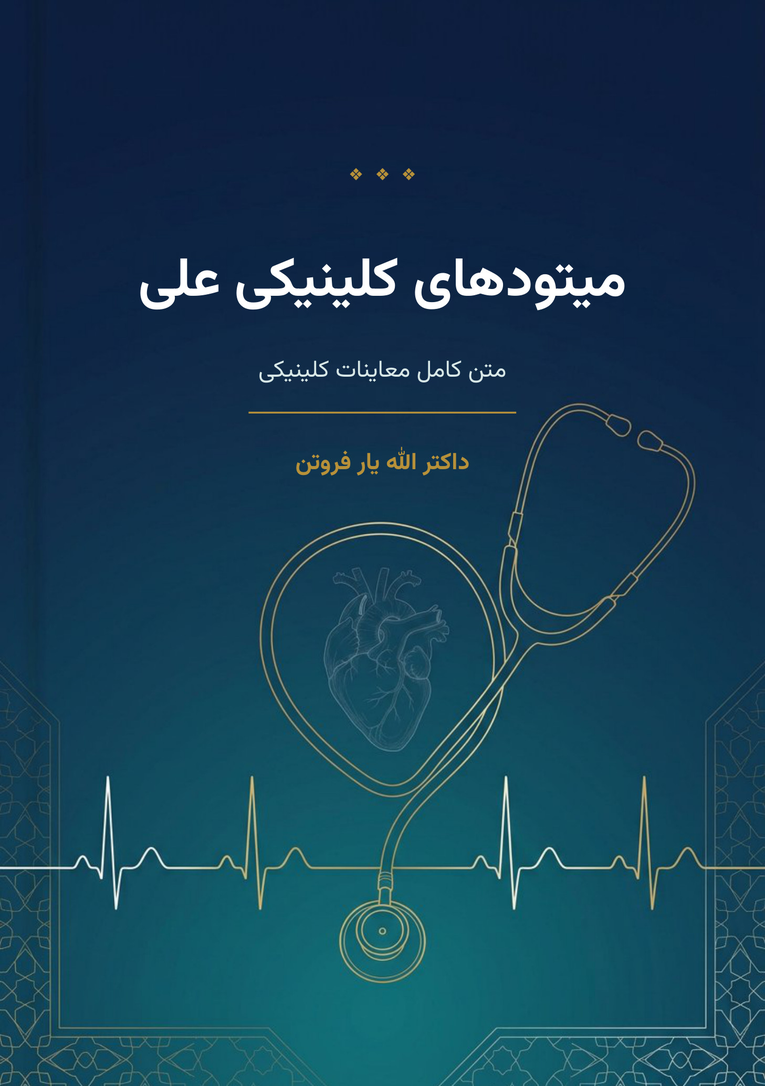
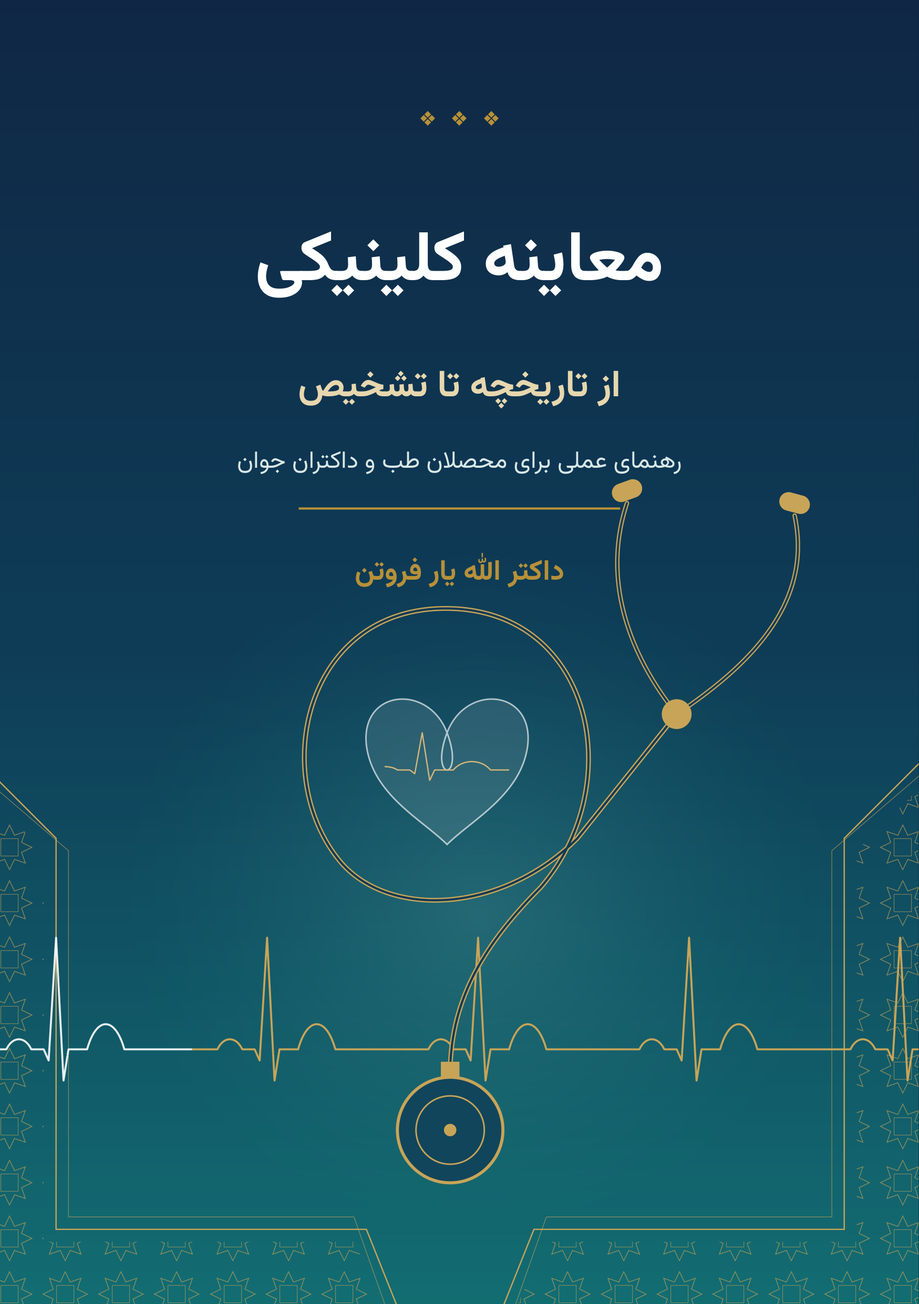
v1.5 WIP: title, vector cover, meta notes removed, imprint fix, even print pages, docs

diff --git a/clinical-methods-ali/tools/cover/make_cover.py b/clinical-methods-ali/tools/cover/make_cover.py
@@ -25,21 +25,24 @@ total_h = H + 2 * B
 src = f'''
 #let navy = rgb("#0f2744"); #let teal = rgb("#136f73"); #let gold = rgb("#b8913a")
 #set page(width: {total_w}mm, height: {total_h}mm, margin: 0pt)
+#import "tools/cover/art.typ": cover-art
 #set text(font: "Vazirmatn", lang: "fa", dir: rtl)
 // background: continuous navy -> teal gradient across the whole wrap
 #place(top + left, rect(width: 100%, height: 100%, fill: gradient.linear(navy, rgb("#0f4a5c"), angle: 90deg)))
 
 // ── FRONT (left panel, incl. left bleed) ──
 #place(top + left, dx: 0mm, dy: 0mm, box(width: {W + B}mm, height: 100%, clip: true,
-  image("assets/cover-art.jpg", width: 100%, height: 100%, fit: "cover")))
+  cover-art(w: {W + B}, h: {H + 2 * B})))
 #place(top + left, dx: {B}mm, dy: {B}mm, box(width: {W}mm, height: {H}mm)[
-  #v(15%)
+  #v(8%)
   #align(center)[
     #text(fill: gold, size: 12pt, tracking: 2pt)[❖ ❖ ❖]
     #v(0.6em)
-    #text(fill: white, size: 30pt, weight: "bold")[میتودهای کلینیکی علی]
+    #text(fill: white, size: 32pt, weight: "bold")[معاینه کلینیکی]
     #v(0.1em)
-    #text(fill: rgb("#d9e8e8"), size: 13pt)[متن کامل معاینات کلینیکی]
+    #text(fill: rgb("#e8d7b0"), size: 17pt, weight: "bold")[از تاریخچه تا تشخیص]
+    #v(0.3em)
+    #text(fill: rgb("#d9e8e8"), size: 11pt)[رهنمای عملی برای محصلان طب و داکتران جوان]
     #v(0.5em)
     #line(length: 35%, stroke: 1pt + gold)
     #v(0.6em)
@@ -53,7 +56,7 @@ src = f'''
   align(center + horizon, rotate(-90deg, reflow: true,
     box(width: {H - 30}mm)[
       #set text(size: {min(12, spine * 0.45):.1f}pt)
-      #text(fill: white, weight: "bold")[میتودهای کلینیکی علی]
+      #text(fill: white, weight: "bold")[معاینه کلینیکی: از تاریخچه تا تشخیص]
       #h(1fr) #text(fill: gold, size: 0.8em)[❖] #h(1fr)
       #text(fill: gold, weight: "bold")[داکتر الله یار فروتن]
     ]))))
@@ -65,17 +68,17 @@ src = f'''
   #set text(fill: white, size: 11.5pt)
   #align(center, text(fill: gold, size: 12pt, tracking: 2pt)[❖ ❖ ❖])
   #v(0.8em)
-  #align(center, text(size: 18pt, weight: "bold")[میتودهای کلینیکی علی])
+  #align(center, text(size: 17pt, weight: "bold")[معاینه کلینیکی: از تاریخچه تا تشخیص])
   #v(0.8em)
-  «میتودهای کلینیکی علی» رهنمای درسی معاینات کلینیکی به زبان دری است؛ از
+  این کتاب رهنمای درسی معاینات کلینیکی به زبان دری است؛ از
   گرفتن تاریخچه و معاینه عمومی تا معاینه سیستمهای قلبیوعایی، تنفسی، هضمی،
   عصبی، حرکی، ولادی، نسایی، اطفال، گوش و بینی و گلو، و خوانش
   الکتروکاردیوگرام.
 
   هر فصل با اهداف آموزشی آغاز میشود و با نکات کلیدی، علایم خطر،
   کیس کلینیکی و سؤالات خودآزمایی پایان مییابد. اصطلاحات طبی با معادل
-  انگلیسی آنها آمدهاند و اندازههای نارمل با رهنمودهای معتبر و بهروز
-  مقایسه و تصحیح شدهاند.
+  انگلیسی آنها آمدهاند و اندازههای نارمل مطابق رهنمودهای معتبر و بهروز
+  بینالمللی ذکر شدهاند.
 
   #v(0.4em)
   #text(fill: gold, weight: "bold")[در این کتاب:]
@@ -97,5 +100,11 @@ tmp = ROOT / ".cover.typ"
 tmp.write_text(src, encoding="utf-8")
 out = ROOT / "build/clinical-methods-ali-cover-wrap.pdf"
 typst.compile(str(tmp), output=str(out), root=str(ROOT), font_paths=[str(ROOT / "fonts")], ignore_system_fonts=True)
+# front cover alone (trim size, no bleed) for the EPUB, rendered at 300 dpi
+front = pymupdf.open(str(out))
+pg = front[0]
+clip = pymupdf.Rect(B / 25.4 * 72, B / 25.4 * 72, (B + W) / 25.4 * 72, (B + H) / 25.4 * 72)
+pix = pg.get_pixmap(dpi=300, clip=clip)
+pix.save(str(ROOT / "assets/cover.jpg"), jpg_quality=92)
 tmp.unlink()
-print(f"interior pages={pages} caliper={a.caliper} spine={spine}mm  sheet={total_w:.1f}x{total_h}mm -> {out.name}")
+print(f"epub cover {pix.width}x{pix.height}px; interior pages={pages} caliper={a.caliper} spine={spine}mm  sheet={total_w:.1f}x{total_h}mm -> {out.name}")

diff --git a/clinical-methods-ali/tools/edit_master.py b/clinical-methods-ali/tools/edit_master.py
@@ -257,7 +257,7 @@ for anchor, name, cap in ADD:
 REPORT.append(f"{k:5d}  additional teaching figures / mind maps inserted")
 # chapter-5 list of X-ray images: images not reproducible -> short note instead of a dangling list
 t = t.replace("**فهرست اشکال و دیاگرامهای فصل**\n",
-  "::: note\n**یادداشت:** رادیوگرافیهای واقعی این فصل (فهرست ذیل) در نسخههای بعدی علاوه خواهند شد؛ برای دیدن نمونهها به اطلسهای معتبر رادیولوژی مراجعه نمایید.\n:::\n\n**فهرست رادیوگرافیهای پیشنهادی این فصل**\n", 1)
+  "::: note\n**یادداشت:** برای دیدن رادیوگرافیهای واقعیِ حالات فهرست ذیل، به اطلسهای معتبر رادیولوژی مراجعه کنید.\n:::\n\n**فهرست رادیوگرافیهای پیشنهادی این فصل**\n", 1)
 DST.write_text(t, encoding="utf-8")
 with open(ROOT / "build/edit-report.txt", "a", encoding="utf-8") as f:
     f.write("\n".join(REPORT[-3:]) + "\n")

diff --git a/clinical-methods-ali/PUBLISHING.md b/clinical-methods-ali/PUBLISHING.md
@@ -1,4 +1,4 @@
-# شناسنامه نشر و مشخصات چاپ ـ «میتودهای کلینیکی علی» (v1.3)
+# شناسنامه نشر و مشخصات چاپ ـ «معاینه کلینیکی: از تاریخچه تا تشخیص» (v1.5)
 
 این سند برای مؤلف، ناشر و مطبعه است. همه اعداد از فایلهای ساختهشده گرفته شدهاند.
 
@@ -6,20 +6,21 @@
 
 | مورد | مقدار |
 |---|---|
-| عنوان | میتودهای کلینیکی علی |
-| عنوان فرعی | متن کامل معاینات کلینیکی |
+| عنوان | معاینه کلینیکی |
+| عنوان فرعی | از تاریخچه تا تشخیص |
+| شعار روی جلد | رهنمای عملی برای محصلان طب و داکتران جوان (فقط روی جلد) |
 | مؤلف | داکتر الله یار فروتن (Dr Allah Yar Frotan) |
 | زبان | دری (fa-AF)، راست به چپ |
 | چاپ | اول (۱۴۰۵ هـ ش / ۲۰۲۶) |
-| ناشر | **هنوز تعیین نشده** (باید مؤلف اعلام کند) |
-| شابک (ISBN) | **هنوز اخذ نشده**؛ صفحه شناسنامه همین را میگوید |
+| ناشر | خالی؛ در کتاب چیزی درباره آن چاپ نمیشود. وقتی تعیین شد: `publisher:` در `metadata.yaml` |
+| شابک (ISBN) | خالی؛ صفحه شناسنامه هیچ یادداشتی درباره آن ندارد. وقتی اخذ شد: `isbn: 978-…` در `metadata.yaml` و بازسازی (در شناسنامه و metadata ظاهر میشود) |
 | موضوعات | طب کلینیکی؛ معاینه فزیکی؛ Physical examination؛ Clinical medicine |
 | کلمات کلیدی | معاینه کلینیکی، تاریخچهگیری، ECG، طب دری |
 | خواننده هدف | محصلان طب (سالهای کلینیکی)، داکتران جوان، استادان |
 | محتوا | ۱۴ فصل و ۵ ضمیمه؛ ۶۳ شکل/شیما/الگوریتم/جدول ترسیمی؛ ۲۲ جدول متنی؛ ۱۵ کیس کلینیکی؛ ۱۵ مجموعه سؤال با جواب؛ ۷۶ اصطلاح؛ فهرست موضوعی ۸۷ مدخل |
 
 **معرفی کوتاه (برای پشت جلد، فهرست کتابفروشی و EPUB):**
-«میتودهای کلینیکی علی» رهنمای درسی معاینات کلینیکی به زبان دری است؛ از گرفتن تاریخچه و معاینه عمومی تا معاینه سیستمهای قلبیوعایی، تنفسی، هضمی، عصبی، حرکی، ولادی، نسایی، اطفال، گوش و بینی و گلو، و خوانش الکتروکاردیوگرام. هر فصل با اهداف آموزشی آغاز و با نکات کلیدی، علایم خطر، کیس کلینیکی و سؤالات خودآزمایی ختم میشود.
+«معاینه کلینیکی: از تاریخچه تا تشخیص» رهنمای درسی معاینات کلینیکی به زبان دری است؛ از گرفتن تاریخچه و معاینه عمومی تا معاینه سیستمهای قلبیوعایی، تنفسی، هضمی، عصبی، حرکی، ولادی، نسایی، اطفال، گوش و بینی و گلو، و خوانش الکتروکاردیوگرام. هر فصل با اهداف آموزشی آغاز و با نکات کلیدی، علایم خطر، کیس کلینیکی و سؤالات خودآزمایی ختم میشود.
 
 ## ۲. فایلهای نهایی (`release/`)
 
@@ -36,13 +37,13 @@
 | مورد | مقدار |
 |---|---|
 | قطع | A5 ـ ۱۴۸ × ۲۱۰ ملیمتر (رقعی اروپایی) |
-| تعداد صفحات متن | **۴۲۶** (شامل صفحات سفید پیش از فصلها) |
+| تعداد صفحات متن | **۴۴۰** (زوج؛ شامل صفحات سفید پیش از فصلها و یک صفحه سفید آخر) |
 | صحافی | چسب گرم (perfect binding)، **عطف در طرف راست** (کتاب راست به چپ) |
 | حاشیهها | داخل (طرف عطف) ۲۱ mm، بیرون ۱۶ mm، بالا ۲۲ mm، پایین ۲۰ mm |
 | رنگ متن داخلی | **رنگی** (سرمهای، فیروزهای، طلایی در جعبهها و شکلها). اگر چاپ سیاه و سفید انتخاب شود، باید یک نمونه آزمایشی چاپ و خوانایی جعبهها بررسی گردد |
 | کاغذ پیشنهادی | آفست ۸۰ گرم |
-| عطف | **۲۴٫۱ mm** با ضخامت ۰٫۰۵۵ mm برای هر صفحه. **ضخامت کاغذ را از مطبعه بپرسید** و جلد را دوباره بسازید: `python3 tools/cover/make_cover.py --caliper 0.050` |
-| اندازه ورق جلد | ۳۲۵٫۴ × ۲۱۶ mm (دو روی ۱۴۸ + عطف ۲۳٫۴ + دو bleed ۳ mm) |
+| عطف | **۲۴٫۲ mm** با فرض ضخامت ۰٫۰۵۵ mm برای هر صفحه (مقدار معمول آفست ۸۰ گرم، ۰٫۰۵–۰٫۱ mm). اگر مطبعه ضخامت دیگری گفت: `python3 tools/cover/make_cover.py --caliper 0.050` |
+| اندازه ورق جلد | ۳۲۶٫۲ × ۲۱۶ mm (دو روی ۱۴۸ + عطف ۲۴٫۲ + دو bleed ۳ mm) |
 | ترتیب جلد | از بیرون، وقتی جلد باز است: **روی جلد چپ**، عطف وسط، **پشت جلد راست** (مخصوص کتاب راست به چپ) |
 | نوشته عطف | عنوان و نام مؤلف؛ وقتی کتاب رو به بالا گذاشته شود، خوانده میشود |
 | فضای رنگ | RGB. مطبعه باید به CMYK تبدیل کند و **یک نمونه چاپی (proof)** بدهد |
@@ -60,11 +61,15 @@
 - ✅ metadata درست در PDF (عنوان، مؤلف، کلمات کلیدی)، EPUB (شناسه ثابت، موضوعات، دسترسیپذیری) و DOCX
 - ✅ جلد کامل با پشت جلد و عطف
 
-### باقیمانده (تصمیم انسانی لازم است)
-- ⬜ **ناشر** و **شابک (ISBN)**؛ بعد از اخذ شابک: صفحه شناسنامه، metadata و بارکد پشت جلد علاوه شود
-- ⬜ **تصویر روی جلد با کیفیت چاپ**: تصویر فعلی ۸۶۴×۱۲۳۲ پیکسل است (حدود ۱۴۵ dpi در قطع A5). برای چاپ دستکم ۱۸۲۰×۲۵۵۰ پیکسل (۳۰۰ dpi با bleed) لازم است؛ همین طرح را با کیفیت بالاتر تهیه کنید یا تأیید مطبعه را بگیرید
-- ⬜ **ضخامت کاغذ** و محاسبه دوباره عطف (بالا)
-- ⬜ **نمونه چاپی (proof)** رنگها و خوانایی شکلهای ECG
-- ⬜ **تأیید مؤلف** بر اصلاحات علمی (`AUTHOR-QUERIES.md`) و بازخوانی نهایی توسط یک ویراستار دریزبان
-- ⬜ مقدمه مؤلف (اختیاری ولی معمول)
-- ⬜ تعداد صفحات ۴۳۸ است؛ اگر مطبعه فرمه ۱۶ صفحهای میخواهد، ۱۰ صفحه سفید در آخر علاوه میکند (۴۴۸)
+### v1.5
+- ✅ عنوان نهایی: «معاینه کلینیکی: از تاریخچه تا تشخیص» (روی جلد، عطف، پشت جلد، صفحات عنوان، سرصفحه، metadata)
+- ✅ طرح جلد کاملاً برداری (`tools/cover/art.typ`) ـ در هر اندازه و هر dpi واضح است؛ `assets/cover.jpg` برای EPUB با ۱۷۴۹×۲۴۸۱ پیکسل (۳۰۰ dpi) ساخته میشود
+- ✅ هیچ یادداشت ویرایشی، شماره نسخه یا توضیح کاری در داخل کتاب نیست
+- ✅ تعداد صفحات متن چاپی زوج (۴۴۰)
+
+### باقیمانده (فقط وقتی معلوم شد؛ برای چاپ مانع نیست)
+- ⬜ ناشر و شابک: در `metadata.yaml` علاوه و بازسازی شود؛ بارکد را مطبعه/ناشر در پشت جلد (پایین، طرف چپ) میگذارد
+- ⬜ ضخامت واقعی کاغذ از مطبعه ← `--caliper`
+- ⬜ نمونه چاپی (proof) رنگها و خوانایی ECG
+- ⬜ مرور مؤلف بر اصلاحات علمی: `AUTHOR-REVIEW.md`
+- ⬜ اگر مطبعه فرمه ۱۶ صفحهای میخواهد، ۸ صفحه سفید در آخر علاوه میکند (۴۴۸)

diff --git a/clinical-methods-ali/README.md b/clinical-methods-ali/README.md
@@ -1,12 +1,14 @@
-# میتودهای کلینیکی علی (داکتر الله یار فروتن)
+# معاینه کلینیکی: از تاریخچه تا تشخیص (داکتر الله یار فروتن)
 
-**Status: edition v1.4, deep language & science review (September 2026).** Evaluation: `EVALUATION.md`. Print specification and checklist: `PUBLISHING.md`. The finished files are in `release/`:
+_Formerly titled «میتودهای کلینیکی علی»; file names keep the `clinical-methods-ali-*` prefix._
+
+**Status: edition v1.5, final title, vector cover, clean front matter (September 2026).** Evaluation: `EVALUATION.md`. Print specification and checklist: `PUBLISHING.md`. The finished files are in `release/`:
 
 | File | Use |
 |---|---|
-| `release/clinical-methods-ali-print-interior.pdf` | **For the printer**: A5 interior, 438 pages, no cover, chapters open on recto, vector figures |
-| `release/clinical-methods-ali-cover-wrap.pdf` | **For the printer**: full cover (back + 24.1 mm spine + front, 3 mm bleed) |
-| `release/clinical-methods-ali.pdf` | Screen PDF with cover, 430 pages, subject index with page numbers |
+| `release/clinical-methods-ali-print-interior.pdf` | **For the printer**: A5 interior, 440 pages, no cover, chapters open on recto, vector figures |
+| `release/clinical-methods-ali-cover-wrap.pdf` | **For the printer**: full cover (back + 24.2 mm spine + front, 3 mm bleed) |
+| `release/clinical-methods-ali.pdf` | Screen PDF with cover, 431 pages, subject index with page numbers |
 | `release/clinical-methods-ali.epub` | E-book (EPUB 3, RTL; epubcheck: 0 errors, 0 warnings) |
 | `release/clinical-methods-ali.docx` | Editable Word version |
 
@@ -18,7 +20,14 @@
   - 22 mind maps, algorithms, schematics and summary tables (chapters 1–13)
 
   All are original schematics. The ECGs are synthetic, drawn at 25 mm/s and 10 mm/mV.
-- **No ISBN yet.** The imprint page states this.
+- **No ISBN/publisher yet.** Nothing about this is printed in the book; add `isbn:` / `publisher:` to `metadata.yaml` when obtained and rebuild.
+
+## v1.5 additions
+- New title «معاینه کلینیکی: از تاریخچه تا تشخیص»; cover tagline «رهنمای عملی برای محصلان طب و داکتران جوان».
+- Cover art redrawn as pure vector Typst (`tools/cover/art.typ`); EPUB cover rendered at 300 dpi (1749×2481).
+- All editorial/meta notes removed from inside the book (no version numbers, no "added in later editions", no ISBN placeholders).
+- Imprint table fixed (title was rendered white); print interior padded to an even page count (440).
+- Author sign-off list: `AUTHOR-REVIEW.md`.
 
 ## v1.2 additions
 - Full language pass: 1,350 verb-register fixes and 74 long sentences rewritten.

diff --git a/clinical-methods-ali/AUTHOR-REVIEW.md b/clinical-methods-ali/AUTHOR-REVIEW.md
@@ -1,0 +1,26 @@
+# مرور مؤلف ـ فهرست اصلاحات علمی برای امضای نهایی
+# Author review — scientific changes for final sign-off
+
+**Book:** «معاینه کلینیکی: از تاریخچه تا تشخیص» — داکتر الله یار فروتن
+**Status:** All changes are already applied in `release/`. Each one was checked against the sources in `SOURCES.md`.
+This sheet does not block printing. It is the author's record of what changed compared with the original manuscript (`manuscript/original/clinical-methods-ali.md`).
+
+## How to review
+Tick each block, or write «اصلاح: …» (correct to …) next to it. Any correction goes into `tools/v14/` as a fix file, then the book is rebuilt.
+
+| # | Block | Where the details are (old → new wording) | Sign-off |
+|---|---|---|---|
+| 1 | Vital signs and cardiovascular values: RR 12–20, pulse 50–100, bradycardia, BP categories, valve severity | `CHANGELOG-editorial.md` § Scientific review v2 | ☐ |
+| 2 | ECG values: axis −30° to +90°, LAD/RAD, PR, QTc, T amplitude, flutter, escape rhythms, blocks | same § + § v1.4 (Ch. 14) | ☐ |
+| 3 | Lab appendix: electrolytes, haematology, CSF, semen (WHO 2021) (was AUTHOR-QUERIES M1–M13) | § Scientific review v2 | ☐ |
+| 4 | Neurology (Ch. 9): reflex grading, gait, autonomic tests, unconscious patient, brain death (AAN 2023), LP | § v1.4 | ☐ |
+| 5 | Obstetrics and gynaecology (Ch. 10–11): parity, landmarks, APH/PROM, FIGO 2018 bleeding, cervical screening (WHO 2021) | § v1.4 | ☐ |
+| 6 | Paediatrics (Ch. 12): milestones, fontanelle, BP (AAP 2017), IMCI breathing cut-offs | § v1.4 | ☐ |
+| 7 | ENT (Ch. 13): ear anatomy, tuning-fork tests, fistula test, rhinoscopy, epistaxis | § v1.4 | ☐ |
+| 8 | Added teaching material (not in the original): objectives, red flags, key points, 15 cases, 15 self-tests, 63 schematic figures, glossary, index | `README.md`, `tools/pedagogy/` | ☐ |
+| 9 | Language edits (no change in meaning): about 2,500 edits in total | `CHANGELOG-v1.4-fixes.md`, `build/style-report.txt` | ☐ |
+| 10 | Title change: «میتودهای کلینیکی علی» → «معاینه کلینیکی: از تاریخچه تا تشخیص» | `metadata.yaml` | ☐ |
+
+Items knowingly left as in the original: CSF pressure 7–20 cm H₂O (an older convention), acid phosphatase in U/dl, and colour index 0.9.
+
+Signature / date: ____________________

diff --git a/clinical-methods-ali/tools/pedagogy/howto.md b/clinical-methods-ali/tools/pedagogy/howto.md
@@ -26,9 +26,9 @@
 **یادداشت:** نکات عملی و توضیحات مهم در داخل متن.
 :::
 
-**شکلها و الگوریتمها:** شکلها، نقشههای ذهنی و الگوریتمهای این کتاب به صورت شیماتیک برای همین نسخه ترسیم شدهاند. ECGها مصنوعیاند و بر اساس کاغذ استندرد (۲۵ mm/s و ۱۰ mm/mV) رسم شدهاند.
+**شکلها و الگوریتمها:** شکلها، نقشههای ذهنی و الگوریتمهای این کتاب به صورت شیماتیک ترسیم شدهاند. ECGها مصنوعیاند و بر اساس کاغذ استندرد (۲۵ mm/s و ۱۰ mm/mV) رسم شدهاند.
 
-**اندازههای نارمل:** اندازهها و معیارها بر اساس رهنمودهای معتبر بینالمللی تا سال ۲۰۲۶ بازبینی شدهاند. فهرست منابع در ضمیمه آخر کتاب آمده است. اندازههای نارمل لابراتوار ممکن از یک لابراتوار به لابراتوار دیگر کمی فرق کند؛ همیشه حدود نارمل همان لابراتوار را در نظر بگیرید.
+**اندازههای نارمل:** اندازهها و معیارها مطابق رهنمودهای معتبر بینالمللی ذکر شدهاند. فهرست منابع در ضمیمه آخر کتاب آمده است. اندازههای نارمل لابراتوار ممکن از یک لابراتوار به لابراتوار دیگر کمی فرق کند؛ همیشه حدود نارمل همان لابراتوار را در نظر بگیرید.
 
 **اصطلاحات:** اصطلاحات طبی به دری و به دنبال آن معادل انگلیسی آمدهاند. فهرست اصطلاحات دری ـ انگلیسی و فهرست موضوعی در آخر کتاب است.
 

diff --git a/clinical-methods-ali/tools/pedagogy/references.md b/clinical-methods-ali/tools/pedagogy/references.md
@@ -20,5 +20,9 @@
 15. Roberts ME, et al. British Thoracic Society Guideline for pleural disease. *Thorax*. 2023;78(Suppl 3):s1–s42.
 16. World Health Organization. *Integrated Management of Childhood Illness (IMCI) Chart Booklet*. Geneva: WHO; 2014.
 17. Sokolow M, Lyon TP. The ventricular complex in left ventricular hypertrophy as obtained by unipolar precordial and limb leads. *Am Heart J*. 1949;37:161–186.
-
-جزئیات هر اصلاح علمی، همراه با متن اصلی مؤلف، در یادداشتهای ویرایشی کتاب (CHANGELOG-editorial.md) ثبت شده است.
+18. Thygesen K, et al. Fourth Universal Definition of Myocardial Infarction (2018). *Circulation*. 2018;138:e618–e651.
+19. Flynn JT, et al. Clinical Practice Guideline for Screening and Management of High Blood Pressure in Children and Adolescents. *Pediatrics*. 2017;140:e20171904.
+20. Munro MG, et al. The two FIGO systems for normal and abnormal uterine bleeding symptoms and classification of causes of abnormal uterine bleeding in the reproductive years: 2018 revisions. *Int J Gynaecol Obstet*. 2018;143:393–408.
+21. World Health Organization. *WHO guideline for screening and treatment of cervical pre-cancer lesions for cervical cancer prevention*. 2nd ed. Geneva: WHO; 2021.
+22. Light RW, et al. Pleural effusions: the diagnostic separation of transudates and exudates. *Ann Intern Med*. 1972;77:507–513.
+23. Advanced Life Support Group. *Advanced Paediatric Life Support: A Practical Approach to Emergencies*. 6th ed. Wiley-Blackwell; 2016.

diff --git a/clinical-methods-ali/EVALUATION.md b/clinical-methods-ali/EVALUATION.md
@@ -1,4 +1,4 @@
-# ارزیابی و نقد کتاب «میتودهای کلینیکی علی» از پنج دیدگاه (و دیدگاه ششم: صفحهآرایی و نشر)
+# ارزیابی و نقد کتاب «معاینه کلینیکی: از تاریخچه تا تشخیص» (نام پیشین: «میتودهای کلینیکی علی») از پنج دیدگاه (و دیدگاه ششم: صفحهآرایی و نشر)
 
 نسخه بررسیشده: نسخه ۱٫۳ (سپتمبر ۲۰۲۶)، ۴۲۶ صفحه در نسخه چاپی (۴۱۶ صفحه در PDF صفحهنمایش)، ۱۴ فصل، یک بخش راهنما و پنج ضمیمه.
 ارزیابی v1.1 پایینتر حفظ شده است؛ جدول نمرههای نهایی در بخش «نمره کلی» آمده است.
